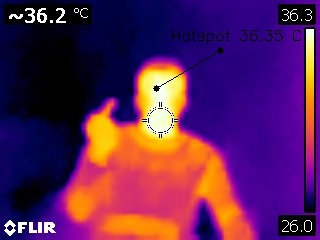
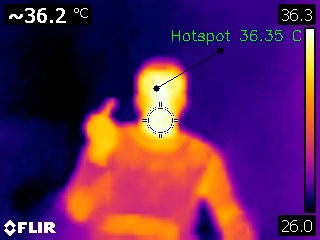
refactored

Changed region(s): [[0.75, 0.1167, 0.9375, 0.175], [0.5312, 0.1167, 0.7188, 0.175]]

diff --git a/adilet-capstone-web/src/app/app.component.html b/adilet-capstone-web/src/app/app.component.html
@@ -2,31 +2,133 @@
 <div class="container">
   <br>
   <br>
-  <h3>Heat Image</h3>
-  <!--  Heat image-->
-  <div class="row">
-    <div class="col-4">
-      <img width="300" alt="Angular Logo" [src]="heatImg">
-      <input type="file" (change)="previewHeatImage($event)" placeholder="Upload image" accept="image/*">
-      <br>
-      <br>
-      <button class="btn btn-success" (click)="uploadHeatImage()">Process</button>
+  <h2>Project App</h2>
+  <br>
+  <div class="card">
+    <div class="card-header">
+      Thermal Image Analyzer
+      <a class="float-right" href="https://github.com/adilet-b11/capstone_project/tree/master/Test%20images">Test
+        images</a>
     </div>
+    <div class="card-body">
+      <div class="row">
+        <div class="col-4">
+          <h5 class="card-title">Original image</h5>
+          <img *ngIf="heatImg" width="300" alt="Angular Logo" [src]="heatImg">
+          <br>
+          <br>
 
-    <div class="col-4">
-      <img width="300" alt="Angular Logo" [src]="heatHotImgOutput">
+          <div class="input-group mb-3">
+            <div class="custom-file">
+              <input type="file" class="custom-file-input" id="inputGroupFile01" (change)="previewHeatImage($event)"
+                     placeholder="Upload image" accept="image/*">
+              <label class="custom-file-label" for="inputGroupFile01">{{heatImgFile?.name || 'Choose file'}}</label>
+            </div>
+          </div>
+          <button class="btn btn-success" (click)="uploadHeatImage()" [disabled]="!heatImgFile">Process</button>
+        </div>
+
+        <div class="col-4">
+          <div *ngIf="heatHotImgOutput">
+            <h5 class="card-title">Hotspot detection</h5>
+            <img width="300" alt="Angular Logo" [src]="heatHotImgOutput">
+          </div>
+        </div>
+
+        <div class="col-4">
+          <div *ngIf="heatIrImgOutput">
+            <h5 class="card-title">Stages</h5>
+            <img width="300" alt="Angular Logo" [src]="heatIrImgOutput">
+          </div>
+        </div>
+
+      </div>
     </div>
-
-    <div class="col-4">
-      <img width="300" alt="Angular Logo" [src]="heatIrImgOutput">
-    </div>
-
   </div>
+
 
   <!--  Simple image-->
-  <div class="row">
 
+  <br>
+
+  <div class="card">
+    <div class="card-header">
+      Device Classifier
+      <a class="float-right" href="https://github.com/adilet-b11/capstone_project/tree/master/Test%20images">Test
+        images</a>
+    </div>
+    <div class="card-body">
+
+      <div class="row">
+        <div class="col-6">
+
+          <h5 class="card-title">Original image</h5>
+          <img *ngIf="simpleImg" width="300" alt="Angular Logo" [src]="simpleImg">
+          <br>
+          <br>
+
+          <div class="input-group mb-3">
+            <div class="custom-file">
+              <input type="file" class="custom-file-input" id="inputGroupFile02" (change)="previewSimpleImage($event)"
+                     placeholder="Upload image" accept="image/*">
+              <label class="custom-file-label" for="inputGroupFile01">{{simpleImgFile?.name || 'Choose file'}}</label>
+            </div>
+          </div>
+
+
+          <button class="btn btn-success" [disabled]="!simpleImgFile" (click)="uploadSimpleImage()">Process</button>
+        </div>
+        <div class="col-6">
+          <div *ngIf="classes">
+            <h4>Result</h4>
+            <table class="table">
+              <thead>
+              <tr>
+                <th scope="col">#</th>
+                <th scope="col">Class</th>
+                <th scope="col">Probability</th>
+              </tr>
+              </thead>
+              <tbody>
+              <tr *ngFor="let c of classes?.data || []; let i = index">
+                <th scope="row">{{i + 1}}</th>
+                <td>{{c.class}}</td>
+                <td>{{c.score}}</td>
+              </tr>
+              </tbody>
+            </table>
+          </div>
+        </div>
+      </div>
+    </div>
   </div>
+  <br>
+  <br>
+
+  <!--  style="{'max-width': 50%; 'max-height': 50%}"-->
+
+
+  <div class="card">
+    <div class="card-header">
+      Contributors
+    </div>
+    <div class="card-body">
+      <div class="row">
+        <div class="col-6">
+          <img src="../assets/images/photo5235720466067467762.jpg" style="width:200px;height:215px;">&nbsp;&nbsp;
+          <p>Adilet Baktykerey</p>
+          <p>adilet.baktykerey@nu.edu.kz</p>
+        </div>
+        <div class="col-6">
+          <img src="../assets/images/photo5235720466067467761.jpg" style="width:200px;height:215px;">
+          <p>Askar Zhanaliyev</p>
+          <span>askar.zhanaliyev@nu.edu.kz</span>
+        </div>
+      </div>
+    </div>
+  </div>
+  <br>
+  <p class="float-right">April, 2020</p>
 </div>
 
 

diff --git a/adilet-capstone-web/src/app/app.component.ts b/adilet-capstone-web/src/app/app.component.ts
@@ -18,6 +18,7 @@ export class AppComponent {
 
   heatHotImgOutput: any = null;
   heatIrImgOutput: any = null;
+  classes = null;
 
   constructor(private http: HttpClient) {
   }
@@ -96,6 +97,7 @@ export class AppComponent {
     headers.append('Accept', 'image/jpg');
     this.http.post('/api/simple-image', formData, {headers: headers}).subscribe(res => {
         console.log(res);
+        this.classes = res;
       }
     )
   }

diff --git a/adilet-capstone-api/device_classifier.py b/adilet-capstone-api/device_classifier.py
@@ -1,0 +1,36 @@
+# Paste your API key for IBM Watson Visual Recognition below: OSKAR
+my_apikey = 'B5b3G2VOKRLtUDxgk0GenbY_qv59-OdotwhdWK29x8gJ'
+
+from ibm_cloud_sdk_core.authenticators import IAMAuthenticator
+from ibm_watson import VisualRecognitionV3
+
+authenticator = IAMAuthenticator(my_apikey)
+
+visrec = VisualRecognitionV3('2020-04-13',
+                             authenticator=authenticator)
+
+# lets grab the classifier id
+classifier_id = 'DeviceClassifier_1744264373'
+
+
+def getdf_visrec(images_file, apikey=my_apikey):
+    json_result = visrec.classify(images_file=images_file,
+                                  threshold='0',
+                                  classifier_ids=classifier_id).get_result()
+    json_classes = json_result['images'][0]['classifiers'][0]['classes']
+    # df = json_normalize(json_classes).sort_values('score', ascending=False).reset_index(drop=True)
+
+    for item in json_classes:
+        if item['class'] == 'SS':
+            item['class'] = 'Substation'
+        if item['class'] == 'PP':
+            item['class'] = 'Power plant'
+
+    def myFunc(e):
+        return e['score']
+    json_classes.sort(reverse=True, key=myFunc)
+    return json_classes
+
+
+def classify(img_path):
+    return getdf_visrec(images_file=open(img_path, 'rb'))

diff --git a/adilet-capstone-api/app.py b/adilet-capstone-api/app.py
@@ -1,11 +1,12 @@
 import json
 
+import cv2
 from flask import Flask
 from flask import request, send_file
 
+from device_classifier import classify
 from hotspot import find_hotspot
 from irimage import find_irimage
-import cv2
 
 app = Flask(__name__)
 
@@ -15,8 +16,7 @@ def process_simple_image():
     if request.method == 'POST':
         r = request
         temp = request.files['uploadFile']
-        # temp.save('kaz.jpg')
-        x = 1
+        temp.save('simple.jpg')
 
         # nparr = np.fromstring(r.data, np.uint8)
         #
@@ -27,8 +27,9 @@ def process_simple_image():
         # extension = os.path.splitext(file.filename)[1]
         # f_name = str(uuid.uuid4()) + extension
         # file.save(os.path.join(app.config['UPLOAD_FOLDER'], f_name))
+
         return app.response_class(
-            response=json.dumps({'a': 1, 'b': 2}),
+            response=json.dumps({'data': classify('simple.jpg')}),
             status=200,
             mimetype='application/json'
         )
@@ -53,6 +54,10 @@ def process_heat_ir_image():
         temp.save('ir.jpg')
         find_irimage('ir.jpg')
         return send_file('ir_out.jpg', mimetype='image/jpg')
+
+
+def create_app():
+    return app
 
 
 if __name__ == '__main__':

diff --git a/adilet-capstone-api/hotspot.py b/adilet-capstone-api/hotspot.py
@@ -28,5 +28,5 @@ def find_hotspot(img_path):
     cv2.circle(img, (x, y), 3, (0, 0, 0), -1)
     cv2.line(img, (x, y), (w, h), 1)
     cv2.circle(img, (w, h), 3, (0, 0, 0), -1)
-    cv2.putText(img, "Hotspot " + str(z) + ' C', (w - 50, h - 10), cv2.FONT_HERSHEY_SIMPLEX, 0.5, (0, 0, 0), 1)
+    cv2.putText(img, "Hotspot " + str(z) + ' C', (w - 50, h - 10), cv2.FONT_HERSHEY_SIMPLEX, 0.5, (0, 255, 0), 1)
     return img
